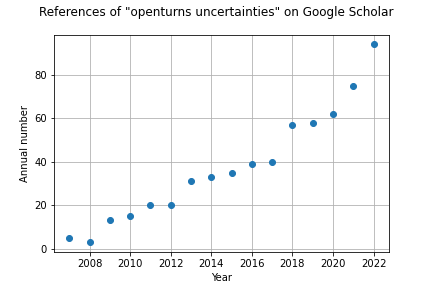
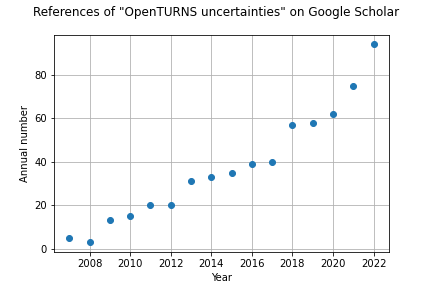
Gather data on UQ software

Changed region(s): [[0.0602, 0.0, 0.9329, 0.0625]]

diff --git a/openturns-metrics/README.md b/openturns-metrics/README.md
@@ -1,0 +1,11 @@
+# OpenTURNS metrics from 2007
+
+## Google Scholar references for OpenTURNS
+
+In Google Scholar, we searched for "openturns uncertainties" from 2007 to 2019.
+
+### References
+
+Example :
+
+https://scholar.google.fr/scholar?q=openturns+uncertainties&hl=fr&as_sdt=1%2C5&as_vis=1&as_ylo=2019&as_yhi=2019
